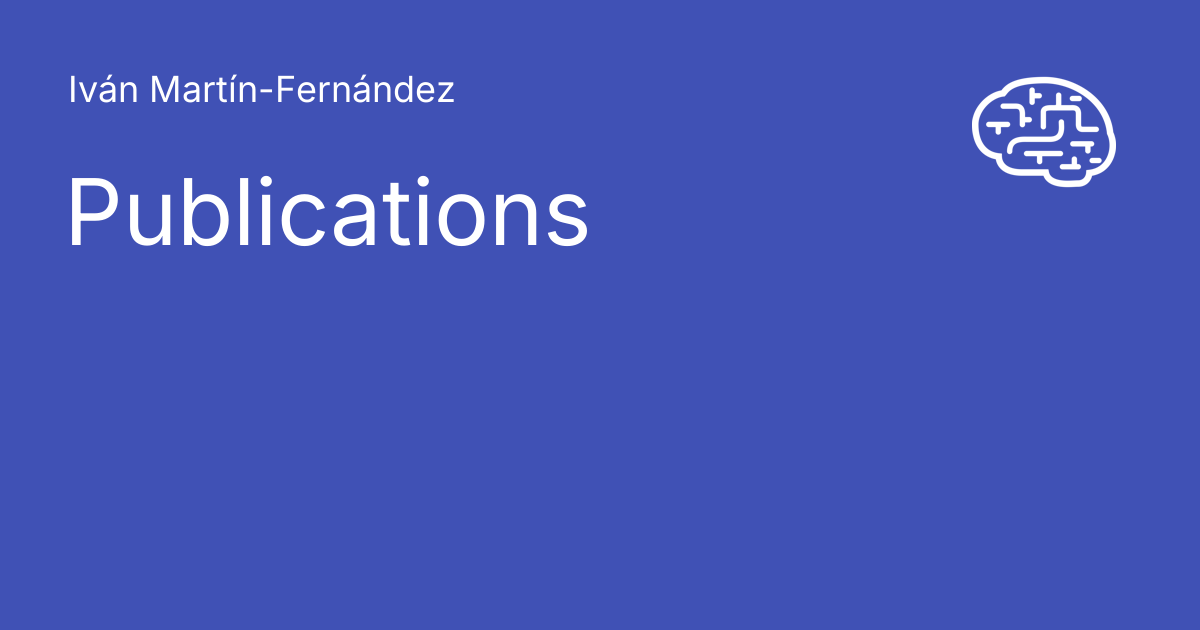
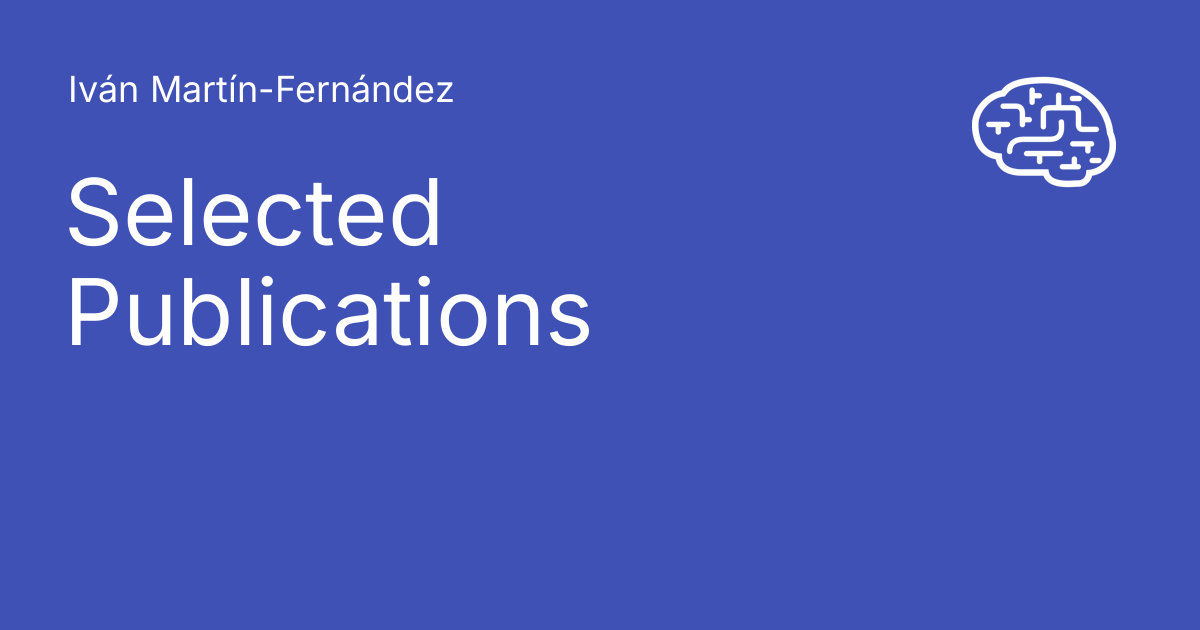
Deployed eb85702 with MkDocs version: 1.6.1

diff --git a/pubs/index.html b/pubs/index.html
@@ -22,7 +22,7 @@
     
     
       
-        <title>Publications - Iván Martín-Fernández</title>
+        <title>Selected Publications - Iván Martín-Fernández</title>
       
     
     
@@ -59,7 +59,7 @@
       
         <meta  property="og:type"  content="website" >
       
-        <meta  property="og:title"  content="Publications - Iván Martín-Fernández" >
+        <meta  property="og:title"  content="Selected Publications - Iván Martín-Fernández" >
       
         <meta  property="og:description"  content="None" >
       
@@ -75,7 +75,7 @@
       
         <meta  name="twitter:card"  content="summary_large_image" >
       
-        <meta  name="twitter:title"  content="Publications - Iván Martín-Fernández" >
+        <meta  name="twitter:title"  content="Selected Publications - Iván Martín-Fernández" >
       
         <meta  name="twitter:description"  content="None" >
       
@@ -102,7 +102,7 @@
     <div data-md-component="skip">
       
         
-        <a href="#publications" class="md-skip">
+        <a href="#selected-publications" class="md-skip">
           Skip to content
         </a>
       
@@ -137,7 +137,7 @@
         <div class="md-header__topic" data-md-component="header-topic">
           <span class="md-ellipsis">
             
-              Publications
+              Selected Publications
             
           </span>
         </div>
@@ -276,7 +276,7 @@
   
   
   <span class="md-ellipsis">
-    Publications
+    Selected Publications
     
   </span>
   
@@ -289,7 +289,7 @@
   
   
   <span class="md-ellipsis">
-    Publications
+    Selected Publications
     
   </span>
   
@@ -310,6 +310,48 @@
       Table of contents
     </label>
     <ul class="md-nav__list" data-md-component="toc" data-md-scrollfix>
+      
+        <li class="md-nav__item">
+  <a href="#2026" class="md-nav__link">
+    <span class="md-ellipsis">
+      2026
+    </span>
+  </a>
+  
+    <nav class="md-nav" aria-label="2026">
+      <ul class="md-nav__list">
+        
+          <li class="md-nav__item">
+  <a href="#a-case-study-on-large-visual-language-model-attention-explainability-after-adaptation-using-persuasion-strategies-in-advertisements" class="md-nav__link">
+    <span class="md-ellipsis">
+      A Case Study on Large Visual-Language Model Attention Explainability After Adaptation Using Persuasion Strategies in Advertisements
+    </span>
+  </a>
+  
+</li>
+        
+          <li class="md-nav__item">
+  <a href="#a-comprehensive-study-on-contrastive-pre-training-and-fine-tuning-of-vision-and-text-transformers-for-video-memorability-prediction" class="md-nav__link">
+    <span class="md-ellipsis">
+      A comprehensive study on contrastive pre-training and fine tuning of vision and text transformers for video memorability prediction
+    </span>
+  </a>
+  
+</li>
+        
+          <li class="md-nav__item">
+  <a href="#principled-evaluation-of-multi-label-persuasion-in-advertisements-with-large-vision-language-models" class="md-nav__link">
+    <span class="md-ellipsis">
+      Principled Evaluation of Multi-Label Persuasion in Advertisements with Large Vision-Language Models
+    </span>
+  </a>
+  
+</li>
+        
+      </ul>
+    </nav>
+  
+</li>
       
         <li class="md-nav__item">
   <a href="#2025" class="md-nav__link">
@@ -449,6 +491,48 @@
     <ul class="md-nav__list" data-md-component="toc" data-md-scrollfix>
       
         <li class="md-nav__item">
+  <a href="#2026" class="md-nav__link">
+    <span class="md-ellipsis">
+      2026
+    </span>
+  </a>
+  
+    <nav class="md-nav" aria-label="2026">
+      <ul class="md-nav__list">
+        
+          <li class="md-nav__item">
+  <a href="#a-case-study-on-large-visual-language-model-attention-explainability-after-adaptation-using-persuasion-strategies-in-advertisements" class="md-nav__link">
+    <span class="md-ellipsis">
+      A Case Study on Large Visual-Language Model Attention Explainability After Adaptation Using Persuasion Strategies in Advertisements
+    </span>
+  </a>
+  
+</li>
+        
+          <li class="md-nav__item">
+  <a href="#a-comprehensive-study-on-contrastive-pre-training-and-fine-tuning-of-vision-and-text-transformers-for-video-memorability-prediction" class="md-nav__link">
+    <span class="md-ellipsis">
+      A comprehensive study on contrastive pre-training and fine tuning of vision and text transformers for video memorability prediction
+    </span>
+  </a>
+  
+</li>
+        
+          <li class="md-nav__item">
+  <a href="#principled-evaluation-of-multi-label-persuasion-in-advertisements-with-large-vision-language-models" class="md-nav__link">
+    <span class="md-ellipsis">
+      Principled Evaluation of Multi-Label Persuasion in Advertisements with Large Vision-Language Models
+    </span>
+  </a>
+  
+</li>
+        
+      </ul>
+    </nav>
+  
+</li>
+      
+        <li class="md-nav__item">
   <a href="#2025" class="md-nav__link">
     <span class="md-ellipsis">
       2025
@@ -545,85 +629,135 @@
 
 
 
-<h1 id="publications">Publications</h1>
+<h1 id="selected-publications">Selected Publications</h1>
 <blockquote>
 <p>The list here only shows papers for which I am first author and selected publications in which I have participated. Please refer to my <a href="https://scholar.google.com/citations?user=1eHvsbsAAAAJ&amp;hl=es&amp;oi=ao"><span class="twemoji"><svg xmlns="http://www.w3.org/2000/svg" viewBox="0 0 512 512"><!--! Font Awesome Free 7.1.0 by @fontawesome - https://fontawesome.com License - https://fontawesome.com/license/free (Icons: CC BY 4.0, Fonts: SIL OFL 1.1, Code: MIT License) Copyright 2025 Fonticons, Inc.--><path d="M390.9 298.5s0 .1.1.1c9.2 19.4 14.4 41.1 14.4 64C405.3 445.1 338.5 512 256 512s-149.3-66.9-149.3-149.3c0-22.9 5.2-44.6 14.4-64 1.7-3.6 3.6-7.2 5.6-10.7q6.6-11.4 15-21.3c27.4-32.6 68.5-53.3 114.4-53.3 33.6 0 64.6 11.1 89.6 29.9 9.1 6.9 17.4 14.7 24.8 23.5 5.6 6.6 10.6 13.8 15 21.3 2 3.4 3.8 7 5.5 10.5zm26.4-18.8c-30.1-58.4-91-98.4-161.3-98.4s-131.2 40-161.3 98.4L0 202.7 256 0l256 202.7-94.7 77.1z"/></svg></span> Google Scholar Profile</a> for a more exhaustive list.</p>
 </blockquote>
+<h2 id="2026">2026</h2>
+<h3 id="a-case-study-on-large-visual-language-model-attention-explainability-after-adaptation-using-persuasion-strategies-in-advertisements">A Case Study on Large Visual-Language Model Attention Explainability After Adaptation Using Persuasion Strategies in Advertisements</h3>
+<p>I. Martín-Fernández, M. G. Constantin, B. Ionescu, S. Esteban-Romero, F. Fernández-Martínez, and M. Gil-Martín, “A Case Study on Large Visual-Language Model Attention Explainability After Adaptation Using Persuasion Strategies in Advertisements,” in MultiMedia Modeling, Singapore: Springer Nature, 2026, pp. 103–116. doi: <a href="https://doi.org/10.1007/978-981-95-6950-2_8">10.1007/978-981-95-6950-2_8</a>.</p>
+<div class="highlight"><span class="filename">Bibtex</span><pre><span></span><code><a id="__codelineno-0-1" name="__codelineno-0-1" href="#__codelineno-0-1"></a>@inproceedings{martin-fernandez_case_2026,
+<a id="__codelineno-0-2" name="__codelineno-0-2" href="#__codelineno-0-2"></a>  title = {A {{Case Study}} on~{{Large Visual-Language Model Attention Explainability After Adaptation Using Persuasion Strategies}} in~{{Advertisements}}},
+<a id="__codelineno-0-3" name="__codelineno-0-3" href="#__codelineno-0-3"></a>  booktitle = {{{MultiMedia Modeling}}},
+<a id="__codelineno-0-4" name="__codelineno-0-4" href="#__codelineno-0-4"></a>  author = {{Mart{\&#39;i}n-Fern{\&#39;a}ndez}, Iv{\&#39;a}n and Constantin, Mihai Gabriel and Ionescu, Bogdan and {Esteban-Romero}, Sergio and {Fern{\&#39;a}ndez-Mart{\&#39;i}nez}, Fernando and {Gil-Mart{\&#39;i}n}, Manuel},
+<a id="__codelineno-0-5" name="__codelineno-0-5" href="#__codelineno-0-5"></a>  editor = {Loko{\v c}, Jakub and Pe{\v s}ka, Ladislav and Zah{\&#39;a}lka, Jan and Rudinac, Stevan and Kastner, Marc and Chen, Jingjing and Hu, Min-Chun and Wu, Jiaxin and Sharma, Ujjwal},
+<a id="__codelineno-0-6" name="__codelineno-0-6" href="#__codelineno-0-6"></a>  year = 2026,
+<a id="__codelineno-0-7" name="__codelineno-0-7" href="#__codelineno-0-7"></a>  pages = {103--116},
+<a id="__codelineno-0-8" name="__codelineno-0-8" href="#__codelineno-0-8"></a>  publisher = {Springer Nature},
+<a id="__codelineno-0-9" name="__codelineno-0-9" href="#__codelineno-0-9"></a>  address = {Singapore},
+<a id="__codelineno-0-10" name="__codelineno-0-10" href="#__codelineno-0-10"></a>  doi = {10.1007/978-981-95-6950-2_8},
+<a id="__codelineno-0-11" name="__codelineno-0-11" href="#__codelineno-0-11"></a>  isbn = {9789819569502},}
+</code></pre></div>
+<h3 id="a-comprehensive-study-on-contrastive-pre-training-and-fine-tuning-of-vision-and-text-transformers-for-video-memorability-prediction">A comprehensive study on contrastive pre-training and fine tuning of vision and text transformers for video memorability prediction</h3>
+<p>I. Martín-Fernández, S. Esteban-Romero, M. Gil-Martín, and F. Fernández-Martínez, “A comprehensive study on contrastive pre-training and fine tuning of vision and text transformers for video memorability prediction,” Multimed Tools Appl, vol. 85, no. 1, p. 30, Jan. 2026, doi: <a href="https://doi.org/10.1007/s11042-026-21260-3.">10.1007/s11042-026-21260-3.</a></p>
+<p><strong>Abstract</strong></p>
+<p>Video memorability prediction has emerged as a key challenge for improving information retrieval, content design, and user engagement. Prior work has shown that semantic cues play a crucial role in determining memorability, with recent studies leveraging Contrastive Language-Image Pre-training (CLIP) encoders to incorporate semantic information. However, the specific improvements attributable to CLIP models remain unclear, as few studies systematically compare their performance against equivalent unimodal encoders or explore fine-tuning strategies. This work addresses that gap through a comprehensive, controlled evaluation of CLIP-based and unimodal encoders for video memorability prediction. We propose FCLIP, a domain-adapted extension of CLIP that undergoes additional contrastive pre-training on memorability-specific image-text pairs. Our experiments assess both feature extraction and supervised fine-tuning, ensuring fair comparisons across models with matched architecture and parameter count. Results show that FCLIP image encoders achieve a Spearman Rank Correlation Coefficient (SRCC) of 0.672 on the Memento10k dataset, significantly outperforming unimodal Vision Transformers. FCLIP text encoders similarly outperform unimodal baselines, reaching an SRCC of 0.632. These findings demonstrate that contrastive learning and domain adaptation substantially improve memorability prediction, highlighting the importance of semantic and multimodal pre-training in developing advanced content analysis systems.</p>
+<div class="highlight"><span class="filename">Bibtex</span><pre><span></span><code><a id="__codelineno-1-1" name="__codelineno-1-1" href="#__codelineno-1-1"></a>@article{martin-fernandez_comprehensive_2026,
+<a id="__codelineno-1-2" name="__codelineno-1-2" href="#__codelineno-1-2"></a>  title = {A Comprehensive Study on Contrastive Pre-Training and Fine Tuning of Vision and Text Transformers for Video Memorability Prediction},
+<a id="__codelineno-1-3" name="__codelineno-1-3" href="#__codelineno-1-3"></a>  author = {{Mart{\&#39;i}n-Fern{\&#39;a}ndez}, Iv{\&#39;a}n and {Esteban-Romero}, Sergio and {Gil-Mart{\&#39;i}n}, Manuel and {Fern{\&#39;a}ndez-Mart{\&#39;i}nez}, Fernando},
+<a id="__codelineno-1-4" name="__codelineno-1-4" href="#__codelineno-1-4"></a>  year = 2026,
+<a id="__codelineno-1-5" name="__codelineno-1-5" href="#__codelineno-1-5"></a>  month = jan,
+<a id="__codelineno-1-6" name="__codelineno-1-6" href="#__codelineno-1-6"></a>  journal = {Multimedia Tools and Applications},
+<a id="__codelineno-1-7" name="__codelineno-1-7" href="#__codelineno-1-7"></a>  volume = {85},
+<a id="__codelineno-1-8" name="__codelineno-1-8" href="#__codelineno-1-8"></a>  number = {1},
+<a id="__codelineno-1-9" name="__codelineno-1-9" href="#__codelineno-1-9"></a>  pages = {30},
+<a id="__codelineno-1-10" name="__codelineno-1-10" href="#__codelineno-1-10"></a>  issn = {1573-7721},
+<a id="__codelineno-1-11" name="__codelineno-1-11" href="#__codelineno-1-11"></a>  doi = {10.1007/s11042-026-21260-3},
+<a id="__codelineno-1-12" name="__codelineno-1-12" href="#__codelineno-1-12"></a>}
+</code></pre></div>
+<h3 id="principled-evaluation-of-multi-label-persuasion-in-advertisements-with-large-vision-language-models">Principled Evaluation of Multi-Label Persuasion in Advertisements with Large Vision-Language Models</h3>
+<p>Iván Martín-Fernández, Mihai Gabriel Constantin, Bogdan Ionescu, Manuel Gil-Martín, and Fernando Fernández-Martínez. 2026. Principled Evaluation of Multi-Label Persuasion in Advertisements with Large Vision-Language Models. ACM Trans. Multimedia Comput. Commun. Appl. Just Accepted (January 2026). <a href="https://doi.org/10.1145/3788874">https://doi.org/10.1145/3788874</a></p>
+<p><strong>Abstract</strong></p>
+<p>The automatic detection of persuasive strategies in advertisements presents a uniquely multimodal challenge at the intersection of vision, language, and social cognition. While recent advances in Large Vision-Language Models (LVLMs) offer promising capabilities for such tasks, current approaches often rely on restrictive evaluation schemes that do not reflect the inherently multi-label nature of persuasive messaging. In this work, we reframe persuasion strategy detection as a genuine multi-label classification problem and propose a principled evaluation framework to enhance interpretability and robustness. We apply this approach to both image and video datasets, examine their characteristics, and introduce novel input-agnostic baselines that achieve macro F1-scores of 0.082 and 0.289 on the respective test sets. As part of this analysis, we study label co-occurrence patterns and dataset ambiguities, providing insights that inform both model interpretation and future dataset design. To assess the native capabilities of LVLMs, we benchmark three open-source models—PaliGemma, PaliGemma2, and Qwen2.5-VL—on the image persuasion dataset. Under zero-shot conditions, we demonstrate that querying each strategy individually with a logit-based decision threshold outperforms guided text generation. The best-performing zero-shot model, Qwen2.5-VL, achieves a macro F1-score of 0.227 and a sample F1-score of 0.234 on the image test set, and 0.381 and 0.400 respectively on the video test set. We further explore and compare two lightweight fine-tuning strategies that update only small subsets of model parameters while keeping the remaining weights frozen: fine-tuning of the image-to-text tokens linear projection and Low Rank Adaptation (LoRA) of the language model. Linear projector fine-tuning yields a top macro F1-score of 0.396 on the image test set, marking a substantial improvement over zero-shot performance. To evaluate cross-modal generalization, we apply fine-tuned image models to the video dataset. Our experiments reveal that, while projection-based fine-tuning enables partial knowledge transfer from image to video (macro F1=0.416 on a testing subset), LoRA adaptation severely disrupts cross-modal performance (macro F1=0.189). Finally, we perform a per-strategy performance analysis, looking into annotator- and data-centric factors that may influence LVLM performance. These findings highlight the viability of open-weight LVLMs for fine-grained persuasion analysis and suggest efficient pathways for domain-specific adaptation under realistic resource constraints.</p>
+<div class="highlight"><span class="filename">Bibtex</span><pre><span></span><code><a id="__codelineno-2-1" name="__codelineno-2-1" href="#__codelineno-2-1"></a>@article{10.1145/3788874,
+<a id="__codelineno-2-2" name="__codelineno-2-2" href="#__codelineno-2-2"></a>author = {Mart\&#39;{\i}n-Fern\&#39;{a}ndez, Iv\&#39;{a}n and Constantin, Mihai Gabriel and Ionescu, Bogdan and Gil-Mart\&#39;{\i}n, Manuel and Fern\&#39;{a}ndez-Mart\&#39;{\i}nez, Fernando},
+<a id="__codelineno-2-3" name="__codelineno-2-3" href="#__codelineno-2-3"></a>title = {Principled Evaluation of Multi-Label Persuasion in Advertisements with Large Vision-Language Models},
+<a id="__codelineno-2-4" name="__codelineno-2-4" href="#__codelineno-2-4"></a>year = {2026},
+<a id="__codelineno-2-5" name="__codelineno-2-5" href="#__codelineno-2-5"></a>publisher = {Association for Computing Machinery},
+<a id="__codelineno-2-6" name="__codelineno-2-6" href="#__codelineno-2-6"></a>address = {New York, NY, USA},
+<a id="__codelineno-2-7" name="__codelineno-2-7" href="#__codelineno-2-7"></a>issn = {1551-6857},
+<a id="__codelineno-2-8" name="__codelineno-2-8" href="#__codelineno-2-8"></a>url = {https://doi.org/10.1145/3788874},
+<a id="__codelineno-2-9" name="__codelineno-2-9" href="#__codelineno-2-9"></a>doi = {10.1145/3788874},
+<a id="__codelineno-2-10" name="__codelineno-2-10" href="#__codelineno-2-10"></a>note = {Just Accepted},
+<a id="__codelineno-2-11" name="__codelineno-2-11" href="#__codelineno-2-11"></a>journal = {ACM Trans. Multimedia Comput. Commun. Appl.},
+<a id="__codelineno-2-12" name="__codelineno-2-12" href="#__codelineno-2-12"></a>month = jan,
+<a id="__codelineno-2-13" name="__codelineno-2-13" href="#__codelineno-2-13"></a>}
+</code></pre></div>
 <h2 id="2025">2025</h2>
 <h3 id="parameter-efficient-adaptation-of-large-visionlanguage-models-for-video-memorability-prediction">Parameter-Efficient Adaptation of Large Vision—Language Models for Video Memorability Prediction</h3>
 <p>Iván Martín-Fernández, Sergio Esteban-Romero, Fernando Fernández-Martínez, and Manuel Gil-Martín. 2025. "Parameter-Efficient Adaptation of Large Vision—Language Models for Video Memorability Prediction" Sensors 25, no. 6: 1661. <a href="https://doi.org/10.3390/s25061661">https://doi.org/10.3390/s25061661</a></p>
 <p><strong>Abstract</strong>
 The accurate modelling of video memorability, or the intrinsic properties that render a piece of audiovisual content more likely to be remembered, will facilitate the development of automatic systems that are more efficient in retrieving, classifying and generating impactful media. Recent studies have indicated a strong correlation between the visual semantics of video and its memorability. This underscores the importance of developing advanced visual comprehension abilities to enhance model performance. It has been demonstrated that Large Vision–Language Models (LVLMs) demonstrate exceptional proficiency in generalist, high-level semantic comprehension of images and video, due to their extensive multimodal pre-training on a vast scale. This work makes use of the vast generalist knowledge of LVLMs and explores efficient adaptation techniques with a view to utilising them as memorability predictors. In particular, the Quantized Low-Rank Adaptation (QLoRA) technique is employed to fine-tune the Qwen-VL model with memorability-related data extracted from the Memento10k dataset. In light of existing research, we propose a particular methodology that transforms Qwen-VL from a language model to a memorability score regressor. Furthermore, we consider the influence of selecting appropriate LoRA hyperparameters, a design aspect that has been insufficiently studied. We validate the LoRA rank and alpha hyperparameters using 5-Fold Cross-Validation and evaluate our best configuration on the official testing portion of the Memento10k dataset, obtaining a state-of-the-art Spearman Rank Correlation Coefficient (SRCC) of 0.744. Consequently, this work represents a significant advancement in modelling video memorability through high-level semantic understanding.</p>
-<div class="highlight"><span class="filename">Bibtex</span><pre><span></span><code><a id="__codelineno-0-1" name="__codelineno-0-1" href="#__codelineno-0-1"></a>@article{s25061661,
-<a id="__codelineno-0-2" name="__codelineno-0-2" href="#__codelineno-0-2"></a>    article-number = {1661},
-<a id="__codelineno-0-3" name="__codelineno-0-3" href="#__codelineno-0-3"></a>    author = {Mart{\&#39;\i}n-Fern{\&#39;a}ndez, Iv{\&#39;a}n and Esteban-Romero, Sergio and Fern{\&#39;a}ndez-Mart{\&#39;\i}nez, Fernando and Gil-Mart{\&#39;\i}n, Manuel},
-<a id="__codelineno-0-4" name="__codelineno-0-4" href="#__codelineno-0-4"></a>    doi = {10.3390/s25061661},
-<a id="__codelineno-0-5" name="__codelineno-0-5" href="#__codelineno-0-5"></a>    issn = {1424-8220},
-<a id="__codelineno-0-6" name="__codelineno-0-6" href="#__codelineno-0-6"></a>    journal = {Sensors},
-<a id="__codelineno-0-7" name="__codelineno-0-7" href="#__codelineno-0-7"></a>    number = {6},
-<a id="__codelineno-0-8" name="__codelineno-0-8" href="#__codelineno-0-8"></a>    pubmedid = {40292713},
-<a id="__codelineno-0-9" name="__codelineno-0-9" href="#__codelineno-0-9"></a>    title = {Parameter-Efficient Adaptation of Large Vision---Language Models for Video Memorability Prediction},
-<a id="__codelineno-0-10" name="__codelineno-0-10" href="#__codelineno-0-10"></a>    url = {https://www.mdpi.com/1424-8220/25/6/1661},
-<a id="__codelineno-0-11" name="__codelineno-0-11" href="#__codelineno-0-11"></a>    volume = {25},
-<a id="__codelineno-0-12" name="__codelineno-0-12" href="#__codelineno-0-12"></a>    year = {2025},
-<a id="__codelineno-0-13" name="__codelineno-0-13" href="#__codelineno-0-13"></a>    bdsk-url-1 = {https://www.mdpi.com/1424-8220/25/6/1661},
-<a id="__codelineno-0-14" name="__codelineno-0-14" href="#__codelineno-0-14"></a>    bdsk-url-2 = {https://doi.org/10.3390/s25061661}
-<a id="__codelineno-0-15" name="__codelineno-0-15" href="#__codelineno-0-15"></a>}
+<div class="highlight"><span class="filename">Bibtex</span><pre><span></span><code><a id="__codelineno-3-1" name="__codelineno-3-1" href="#__codelineno-3-1"></a>@article{s25061661,
+<a id="__codelineno-3-2" name="__codelineno-3-2" href="#__codelineno-3-2"></a>    article-number = {1661},
+<a id="__codelineno-3-3" name="__codelineno-3-3" href="#__codelineno-3-3"></a>    author = {Mart{\&#39;\i}n-Fern{\&#39;a}ndez, Iv{\&#39;a}n and Esteban-Romero, Sergio and Fern{\&#39;a}ndez-Mart{\&#39;\i}nez, Fernando and Gil-Mart{\&#39;\i}n, Manuel},
+<a id="__codelineno-3-4" name="__codelineno-3-4" href="#__codelineno-3-4"></a>    doi = {10.3390/s25061661},
+<a id="__codelineno-3-5" name="__codelineno-3-5" href="#__codelineno-3-5"></a>    issn = {1424-8220},
+<a id="__codelineno-3-6" name="__codelineno-3-6" href="#__codelineno-3-6"></a>    journal = {Sensors},
+<a id="__codelineno-3-7" name="__codelineno-3-7" href="#__codelineno-3-7"></a>    number = {6},
+<a id="__codelineno-3-8" name="__codelineno-3-8" href="#__codelineno-3-8"></a>    pubmedid = {40292713},
+<a id="__codelineno-3-9" name="__codelineno-3-9" href="#__codelineno-3-9"></a>    title = {Parameter-Efficient Adaptation of Large Vision---Language Models for Video Memorability Prediction},
+<a id="__codelineno-3-10" name="__codelineno-3-10" href="#__codelineno-3-10"></a>    url = {https://www.mdpi.com/1424-8220/25/6/1661},
+<a id="__codelineno-3-11" name="__codelineno-3-11" href="#__codelineno-3-11"></a>    volume = {25},
+<a id="__codelineno-3-12" name="__codelineno-3-12" href="#__codelineno-3-12"></a>    year = {2025},
+<a id="__codelineno-3-13" name="__codelineno-3-13" href="#__codelineno-3-13"></a>    bdsk-url-1 = {https://www.mdpi.com/1424-8220/25/6/1661},
+<a id="__codelineno-3-14" name="__codelineno-3-14" href="#__codelineno-3-14"></a>    bdsk-url-2 = {https://doi.org/10.3390/s25061661}
+<a id="__codelineno-3-15" name="__codelineno-3-15" href="#__codelineno-3-15"></a>}
 </code></pre></div>
 <h2 id="2024">2024</h2>
 <h3 id="larger-encoders-smaller-regressors-exploring-label-dimensionality-reduction-and-multimodal-large-language-models-as-feature-extractors-for-predicting-social-perception">Larger Encoders, Smaller Regressors: Exploring Label Dimensionality Reduction and Multimodal Large Language Models as Feature Extractors for Predicting Social Perception</h3>
 <p>Iván Martín-Fernández, Sergio Esteban-Romero, Jaime Bellver-Soler, Fernando Fernández-Martínez, and Manuel Gil-Martín. 2024. Larger Encoders, Smaller Regressors: Exploring Label Dimensionality Reduction and Multimodal Large Language Models as Feature Extractors for Predicting Social Perception. In Proceedings of the 5th on Multimodal Sentiment Analysis Challenge and Workshop: Social Perception and Humor (MuSe'24). Association for Computing Machinery, New York, NY, USA, 20–27. <a href="https://doi.org/10.1145/3689062.3689083">https://doi.org/10.1145/3689062.3689083</a></p>
 <p><strong>Abstract</strong>:
 Designing reliable automatic models for social perception can contribute to a better understanding of human behavior, enabling more trustworthy experiences in the multimedia on-line communication environment. However, predicting social attributes from video data remains challenging due to the complex interplay of visual, auditory, and linguistic cues. In this paper, we address this challenge by investigating the effectiveness of Multimodal Large Language Models (MM-LLMs) for feature extraction in the MuSe-Perception challenge. Firstly, our analysis of the novel LMU-ELP dataset has revealed high correlations between certain perceptual dimensions, motivating using a single regression model for all 16 social attributes to be predicted for a set of speakers appearing in recorded video clips. We demonstrate that dimensionality reduction through Principal Component Analysis (PCA) can be applied to the label space without a relevant performance loss. Secondly, by employing frozen MM-LLMs as feature extractors, we explore their ability to capture perception-related information. We extract sequence embeddings from the Qwen-VL and Qwen-Audio models and train a Multi-Layer Perceptron over the attention-pooled vectors for each one of the encoders, obtaining a mean Pearson correlation of 0.22 using the average predictions for both models. Our best result of 0.31 is achieved by training the same architecture over the baseline vit-ver and w2v-msp features, which motivates further exploration on how to effectively leverage advanced MM-LLMs as feature extractors. Lastly, a post hoc analysis of our results highlights the limitations of Pearson correlation for evaluating regression performance in this context. In particular, a similar Pearson coefficient can be obtained with two very different prediction sets displaying different levels of variability. We take this result as a call to action in exploring alternative metrics to assess the regression performance for the task.</p>
-<div class="highlight"><span class="filename">Bibtex</span><pre><span></span><code><a id="__codelineno-1-1" name="__codelineno-1-1" href="#__codelineno-1-1"></a>@inproceedings{10.1145/3689062.3689083,
-<a id="__codelineno-1-2" name="__codelineno-1-2" href="#__codelineno-1-2"></a>author = {Mart\&#39;{\i}n-Fern\&#39;{a}ndez, Iv\&#39;{a}n and Esteban-Romero, Sergio and Bellver-Soler, Jaime and Fern\&#39;{a}ndez-Mart\&#39;{\i}nez, Fernando and Gil-Mart\&#39;{\i}n, Manuel},
-<a id="__codelineno-1-3" name="__codelineno-1-3" href="#__codelineno-1-3"></a>title = {Larger Encoders, Smaller Regressors: Exploring Label Dimensionality Reduction and Multimodal Large Language Models as Feature Extractors for Predicting Social Perception},
-<a id="__codelineno-1-4" name="__codelineno-1-4" href="#__codelineno-1-4"></a>year = {2024},
-<a id="__codelineno-1-5" name="__codelineno-1-5" href="#__codelineno-1-5"></a>isbn = {9798400711992},
-<a id="__codelineno-1-6" name="__codelineno-1-6" href="#__codelineno-1-6"></a>publisher = {Association for Computing Machinery},
-<a id="__codelineno-1-7" name="__codelineno-1-7" href="#__codelineno-1-7"></a>address = {New York, NY, USA},
-<a id="__codelineno-1-8" name="__codelineno-1-8" href="#__codelineno-1-8"></a>url = {https://doi.org/10.1145/3689062.3689083},
-<a id="__codelineno-1-9" name="__codelineno-1-9" href="#__codelineno-1-9"></a>doi = {10.1145/3689062.3689083},
-<a id="__codelineno-1-10" name="__codelineno-1-10" href="#__codelineno-1-10"></a>abstract = {Designing reliable automatic models for social perception can contribute to a better understanding of human behavior, enabling more trustworthy experiences in the multimedia on-line communication environment. However, predicting social attributes from video data remains challenging due to the complex interplay of visual, auditory, and linguistic cues. In this paper, we address this challenge by investigating the effectiveness of Multimodal Large Language Models (MM-LLMs) for feature extraction in the MuSe-Perception challenge. Firstly, our analysis of the novel LMU-ELP dataset has revealed high correlations between certain perceptual dimensions, motivating using a single regression model for all 16 social attributes to be predicted for a set of speakers appearing in recorded video clips. We demonstrate that dimensionality reduction through Principal Component Analysis (PCA) can be applied to the label space without a relevant performance loss. Secondly, by employing frozen MM-LLMs as feature extractors, we explore their ability to capture perception-related information. We extract sequence embeddings from the Qwen-VL and Qwen-Audio models and train a Multi-Layer Perceptron over the attention-pooled vectors for each one of the encoders, obtaining a mean Pearson correlation of 0.22 using the average predictions for both models. Our best result of 0.31 is achieved by training the same architecture over the baseline vit-ver and w2v-msp features, which motivates further exploration on how to effectively leverage advanced MM-LLMs as feature extractors. Lastly, a post hoc analysis of our results highlights the limitations of Pearson correlation for evaluating regression performance in this context. In particular, a similar Pearson coefficient can be obtained with two very different prediction sets displaying different levels of variability. We take this result as a call to action in exploring alternative metrics to assess the regression performance for the task.},
-<a id="__codelineno-1-11" name="__codelineno-1-11" href="#__codelineno-1-11"></a>booktitle = {Proceedings of the 5th on Multimodal Sentiment Analysis Challenge and Workshop: Social Perception and Humor},
-<a id="__codelineno-1-12" name="__codelineno-1-12" href="#__codelineno-1-12"></a>pages = {20–27},
-<a id="__codelineno-1-13" name="__codelineno-1-13" href="#__codelineno-1-13"></a>numpages = {8},
-<a id="__codelineno-1-14" name="__codelineno-1-14" href="#__codelineno-1-14"></a>keywords = {affective computing, multimodal large language model., multimodal sentiment analysis, social perception},
-<a id="__codelineno-1-15" name="__codelineno-1-15" href="#__codelineno-1-15"></a>location = {Melbourne VIC, Australia},
-<a id="__codelineno-1-16" name="__codelineno-1-16" href="#__codelineno-1-16"></a>series = {MuSe&#39;24}
-<a id="__codelineno-1-17" name="__codelineno-1-17" href="#__codelineno-1-17"></a>}
+<div class="highlight"><span class="filename">Bibtex</span><pre><span></span><code><a id="__codelineno-4-1" name="__codelineno-4-1" href="#__codelineno-4-1"></a>@inproceedings{10.1145/3689062.3689083,
+<a id="__codelineno-4-2" name="__codelineno-4-2" href="#__codelineno-4-2"></a>author = {Mart\&#39;{\i}n-Fern\&#39;{a}ndez, Iv\&#39;{a}n and Esteban-Romero, Sergio and Bellver-Soler, Jaime and Fern\&#39;{a}ndez-Mart\&#39;{\i}nez, Fernando and Gil-Mart\&#39;{\i}n, Manuel},
+<a id="__codelineno-4-3" name="__codelineno-4-3" href="#__codelineno-4-3"></a>title = {Larger Encoders, Smaller Regressors: Exploring Label Dimensionality Reduction and Multimodal Large Language Models as Feature Extractors for Predicting Social Perception},
+<a id="__codelineno-4-4" name="__codelineno-4-4" href="#__codelineno-4-4"></a>year = {2024},
+<a id="__codelineno-4-5" name="__codelineno-4-5" href="#__codelineno-4-5"></a>isbn = {9798400711992},
+<a id="__codelineno-4-6" name="__codelineno-4-6" href="#__codelineno-4-6"></a>publisher = {Association for Computing Machinery},
+<a id="__codelineno-4-7" name="__codelineno-4-7" href="#__codelineno-4-7"></a>address = {New York, NY, USA},
+<a id="__codelineno-4-8" name="__codelineno-4-8" href="#__codelineno-4-8"></a>url = {https://doi.org/10.1145/3689062.3689083},
+<a id="__codelineno-4-9" name="__codelineno-4-9" href="#__codelineno-4-9"></a>doi = {10.1145/3689062.3689083},
+<a id="__codelineno-4-10" name="__codelineno-4-10" href="#__codelineno-4-10"></a>abstract = {Designing reliable automatic models for social perception can contribute to a better understanding of human behavior, enabling more trustworthy experiences in the multimedia on-line communication environment. However, predicting social attributes from video data remains challenging due to the complex interplay of visual, auditory, and linguistic cues. In this paper, we address this challenge by investigating the effectiveness of Multimodal Large Language Models (MM-LLMs) for feature extraction in the MuSe-Perception challenge. Firstly, our analysis of the novel LMU-ELP dataset has revealed high correlations between certain perceptual dimensions, motivating using a single regression model for all 16 social attributes to be predicted for a set of speakers appearing in recorded video clips. We demonstrate that dimensionality reduction through Principal Component Analysis (PCA) can be applied to the label space without a relevant performance loss. Secondly, by employing frozen MM-LLMs as feature extractors, we explore their ability to capture perception-related information. We extract sequence embeddings from the Qwen-VL and Qwen-Audio models and train a Multi-Layer Perceptron over the attention-pooled vectors for each one of the encoders, obtaining a mean Pearson correlation of 0.22 using the average predictions for both models. Our best result of 0.31 is achieved by training the same architecture over the baseline vit-ver and w2v-msp features, which motivates further exploration on how to effectively leverage advanced MM-LLMs as feature extractors. Lastly, a post hoc analysis of our results highlights the limitations of Pearson correlation for evaluating regression performance in this context. In particular, a similar Pearson coefficient can be obtained with two very different prediction sets displaying different levels of variability. We take this result as a call to action in exploring alternative metrics to assess the regression performance for the task.},
+<a id="__codelineno-4-11" name="__codelineno-4-11" href="#__codelineno-4-11"></a>booktitle = {Proceedings of the 5th on Multimodal Sentiment Analysis Challenge and Workshop: Social Perception and Humor},
+<a id="__codelineno-4-12" name="__codelineno-4-12" href="#__codelineno-4-12"></a>pages = {20–27},
+<a id="__codelineno-4-13" name="__codelineno-4-13" href="#__codelineno-4-13"></a>numpages = {8},
+<a id="__codelineno-4-14" name="__codelineno-4-14" href="#__codelineno-4-14"></a>keywords = {affective computing, multimodal large language model., multimodal sentiment analysis, social perception},
+<a id="__codelineno-4-15" name="__codelineno-4-15" href="#__codelineno-4-15"></a>location = {Melbourne VIC, Australia},
+<a id="__codelineno-4-16" name="__codelineno-4-16" href="#__codelineno-4-16"></a>series = {MuSe&#39;24}
+<a id="__codelineno-4-17" name="__codelineno-4-17" href="#__codelineno-4-17"></a>}
 </code></pre></div>
 <h2 id="2023">2023</h2>
 <h3 id="exploring-video-transformers-and-automatic-segment-selection-for-memorability-prediciton">Exploring Video Transformers and Automatic Segment Selection for Memorability Prediciton</h3>
 <p>Martín-Fernández, I., Esteban-Romero, S., Bellver-Soler, J., Gil-Martín, M., &amp; Fernández-Martínez, F. (2023). Exploring Video Transformers and Automatic Segment Selection for Memorability Prediction. Available at <a href="https://ceur-ws.org/Vol-3658/paper25.pdf">https://ceur-ws.org/Vol-3658/paper25.pdf</a></p>
 <p><strong>Abstract</strong>:
 This paper summarises THAU-UPM’s approach and results from the MediaEval 2023 Predicting Video Memorability task. Focused on the generalisation subtask, our work leverages a pre-trained Video Vision Transformer (ViViT), fine-tuned on memorability-related data, to model temporal and spatial relationships in videos. We propose novel, annotator-independent automatic segment selection methods grounded in visual saliency. These methods identify the most relevant video frames prior to conducting memorability score estimation. This selection process is implemented during both training and evaluation phases. Our study demonstrates the effectiveness of fine-tuning the ViViT model compared to a scratchtrained baseline, emphasising the importance of pre-training for predicting memorability. However, the model shows comparable sensitivity to both saliency-based and naive segment selection methods, suggesting that fine-tuning may harness similar benefits from various video segments. These results underscore the robustness of our approach but also signal the need for ongoing research.</p>
-<div class="highlight"><span class="filename">Bibtex</span><pre><span></span><code><a id="__codelineno-2-1" name="__codelineno-2-1" href="#__codelineno-2-1"></a>@article{martin2023exploring,
-<a id="__codelineno-2-2" name="__codelineno-2-2" href="#__codelineno-2-2"></a>  title={Exploring Video Transformers and Automatic Segment Selection for Memorability Prediction},
-<a id="__codelineno-2-3" name="__codelineno-2-3" href="#__codelineno-2-3"></a>  author={Mart{\&#39;\i}n-Fern{\&#39;a}ndez, Iv{\&#39;a}n and Esteban-Romero, Sergio and Bellver-Soler, Jaime and Gil-Mart{\&#39;\i}n, Manuel and Fern{\&#39;a}ndez-Mart{\&#39;\i}nez, Fernando},
-<a id="__codelineno-2-4" name="__codelineno-2-4" href="#__codelineno-2-4"></a>  year={2023}
-<a id="__codelineno-2-5" name="__codelineno-2-5" href="#__codelineno-2-5"></a>}
+<div class="highlight"><span class="filename">Bibtex</span><pre><span></span><code><a id="__codelineno-5-1" name="__codelineno-5-1" href="#__codelineno-5-1"></a>@article{martin2023exploring,
+<a id="__codelineno-5-2" name="__codelineno-5-2" href="#__codelineno-5-2"></a>  title={Exploring Video Transformers and Automatic Segment Selection for Memorability Prediction},
+<a id="__codelineno-5-3" name="__codelineno-5-3" href="#__codelineno-5-3"></a>  author={Mart{\&#39;\i}n-Fern{\&#39;a}ndez, Iv{\&#39;a}n and Esteban-Romero, Sergio and Bellver-Soler, Jaime and Gil-Mart{\&#39;\i}n, Manuel and Fern{\&#39;a}ndez-Mart{\&#39;\i}nez, Fernando},
+<a id="__codelineno-5-4" name="__codelineno-5-4" href="#__codelineno-5-4"></a>  year={2023}
+<a id="__codelineno-5-5" name="__codelineno-5-5" href="#__codelineno-5-5"></a>}
 </code></pre></div>
 <h3 id="video-memorability-prediction-from-jointly-learnt-semantic-and-visual-features">Video Memorability Prediction From Jointly-learnt Semantic and Visual Features</h3>
 <p>Iván Martín-Fernández, Ricardo Kleinlein, Cristina Luna-Jiménez, Manuel Gil-Martín, and Fernando Fernández-Martínez. 2023. Video Memorability Prediction From Jointly-learnt Semantic and Visual Features. In Proceedings of the 20th International Conference on Content-based Multimedia Indexing (CBMI '23). Association for Computing Machinery, New York, NY, USA, 178–182. <a href="https://doi.org/10.1145/3617233.3617260">https://doi.org/10.1145/3617233.3617260</a></p>
 <p><strong>Abstract</strong>:
 The memorability of a video is defined as an intrinsic property of its visual features that dictates the fraction of people who recall having watched it on a second viewing within a memory game. Still, unravelling what are the key features to predict memorability remains an obscure matter. This challenge is addressed here by fine-tuning text and image encoders using a cross-modal strategy known as Contrastive Language-Image Pre-training (CLIP). The resulting video-level data representations learned include semantics and topic-descriptive information as observed from both modalities, hence enhancing the predictive power of our algorithms. Our proposal achieves in the text domain a significantly greater Spearman Rank Correlation Coefficient (SRCC) than a default pre-trained text encoder (0.575 ± 0.007 and 0.538 ± 0.007, respectively) over the Memento10K dataset. A similar trend, although less pronounced, can be noticed in the visual domain. We believe these findings signal the potential benefits that cross-modal predictive systems can extract from being fine-tuned to the specific issue of media memorability.</p>
-<div class="highlight"><span class="filename">Bibtex</span><pre><span></span><code><a id="__codelineno-3-1" name="__codelineno-3-1" href="#__codelineno-3-1"></a>@inproceedings{10.1145/3617233.3617260,
-<a id="__codelineno-3-2" name="__codelineno-3-2" href="#__codelineno-3-2"></a>author = {Mart\&#39;{\i}n-Fern\&#39;{a}ndez, Iv\&#39;{a}n and Kleinlein, Ricardo and Luna-Jim\&#39;{e}nez, Cristina and Gil-Mart\&#39;{\i}n, Manuel and Fern\&#39;{a}ndez-Mart\&#39;{\i}nez, Fernando},
-<a id="__codelineno-3-3" name="__codelineno-3-3" href="#__codelineno-3-3"></a>title = {Video Memorability Prediction From Jointly-learnt Semantic and Visual Features},
-<a id="__codelineno-3-4" name="__codelineno-3-4" href="#__codelineno-3-4"></a>year = {2023},
-<a id="__codelineno-3-5" name="__codelineno-3-5" href="#__codelineno-3-5"></a>isbn = {9798400709128},
-<a id="__codelineno-3-6" name="__codelineno-3-6" href="#__codelineno-3-6"></a>publisher = {Association for Computing Machinery},
-<a id="__codelineno-3-7" name="__codelineno-3-7" href="#__codelineno-3-7"></a>address = {New York, NY, USA},
-<a id="__codelineno-3-8" name="__codelineno-3-8" href="#__codelineno-3-8"></a>url = {https://doi.org/10.1145/3617233.3617260},
-<a id="__codelineno-3-9" name="__codelineno-3-9" href="#__codelineno-3-9"></a>doi = {10.1145/3617233.3617260},
-<a id="__codelineno-3-10" name="__codelineno-3-10" href="#__codelineno-3-10"></a>booktitle = {Proceedings of the 20th International Conference on Content-Based Multimedia Indexing},
-<a id="__codelineno-3-11" name="__codelineno-3-11" href="#__codelineno-3-11"></a>pages = {178–182},
-<a id="__codelineno-3-12" name="__codelineno-3-12" href="#__codelineno-3-12"></a>numpages = {5},
-<a id="__codelineno-3-13" name="__codelineno-3-13" href="#__codelineno-3-13"></a>keywords = {pre-training, media memorability, cross-modal, CLIP},
-<a id="__codelineno-3-14" name="__codelineno-3-14" href="#__codelineno-3-14"></a>location = {&lt;conf-loc&gt;, &lt;city&gt;Orleans&lt;/city&gt;, &lt;country&gt;France&lt;/country&gt;, &lt;/conf-loc&gt;},
-<a id="__codelineno-3-15" name="__codelineno-3-15" href="#__codelineno-3-15"></a>series = {CBMI &#39;23}
-<a id="__codelineno-3-16" name="__codelineno-3-16" href="#__codelineno-3-16"></a>}
+<div class="highlight"><span class="filename">Bibtex</span><pre><span></span><code><a id="__codelineno-6-1" name="__codelineno-6-1" href="#__codelineno-6-1"></a>@inproceedings{10.1145/3617233.3617260,
+<a id="__codelineno-6-2" name="__codelineno-6-2" href="#__codelineno-6-2"></a>author = {Mart\&#39;{\i}n-Fern\&#39;{a}ndez, Iv\&#39;{a}n and Kleinlein, Ricardo and Luna-Jim\&#39;{e}nez, Cristina and Gil-Mart\&#39;{\i}n, Manuel and Fern\&#39;{a}ndez-Mart\&#39;{\i}nez, Fernando},
+<a id="__codelineno-6-3" name="__codelineno-6-3" href="#__codelineno-6-3"></a>title = {Video Memorability Prediction From Jointly-learnt Semantic and Visual Features},
+<a id="__codelineno-6-4" name="__codelineno-6-4" href="#__codelineno-6-4"></a>year = {2023},
+<a id="__codelineno-6-5" name="__codelineno-6-5" href="#__codelineno-6-5"></a>isbn = {9798400709128},
+<a id="__codelineno-6-6" name="__codelineno-6-6" href="#__codelineno-6-6"></a>publisher = {Association for Computing Machinery},
+<a id="__codelineno-6-7" name="__codelineno-6-7" href="#__codelineno-6-7"></a>address = {New York, NY, USA},
+<a id="__codelineno-6-8" name="__codelineno-6-8" href="#__codelineno-6-8"></a>url = {https://doi.org/10.1145/3617233.3617260},
+<a id="__codelineno-6-9" name="__codelineno-6-9" href="#__codelineno-6-9"></a>doi = {10.1145/3617233.3617260},
+<a id="__codelineno-6-10" name="__codelineno-6-10" href="#__codelineno-6-10"></a>booktitle = {Proceedings of the 20th International Conference on Content-Based Multimedia Indexing},
+<a id="__codelineno-6-11" name="__codelineno-6-11" href="#__codelineno-6-11"></a>pages = {178–182},
+<a id="__codelineno-6-12" name="__codelineno-6-12" href="#__codelineno-6-12"></a>numpages = {5},
+<a id="__codelineno-6-13" name="__codelineno-6-13" href="#__codelineno-6-13"></a>keywords = {pre-training, media memorability, cross-modal, CLIP},
+<a id="__codelineno-6-14" name="__codelineno-6-14" href="#__codelineno-6-14"></a>location = {&lt;conf-loc&gt;, &lt;city&gt;Orleans&lt;/city&gt;, &lt;country&gt;France&lt;/country&gt;, &lt;/conf-loc&gt;},
+<a id="__codelineno-6-15" name="__codelineno-6-15" href="#__codelineno-6-15"></a>series = {CBMI &#39;23}
+<a id="__codelineno-6-16" name="__codelineno-6-16" href="#__codelineno-6-16"></a>}
 </code></pre></div>
 
 

diff --git a/404.html b/404.html
@@ -230,7 +230,7 @@
   
   
   <span class="md-ellipsis">
-    Publications
+    Selected Publications
     
   </span>
   

diff --git a/contact/index.html b/contact/index.html
@@ -277,7 +277,7 @@
   
   
   <span class="md-ellipsis">
-    Publications
+    Selected Publications
     
   </span>
   

diff --git a/index.html b/index.html
@@ -275,7 +275,7 @@
   
   
   <span class="md-ellipsis">
-    Publications
+    Selected Publications
     
   </span>
   

diff --git a/slides/index.html b/slides/index.html
@@ -265,7 +265,7 @@
   
   
   <span class="md-ellipsis">
-    Publications
+    Selected Publications
     
   </span>
   
